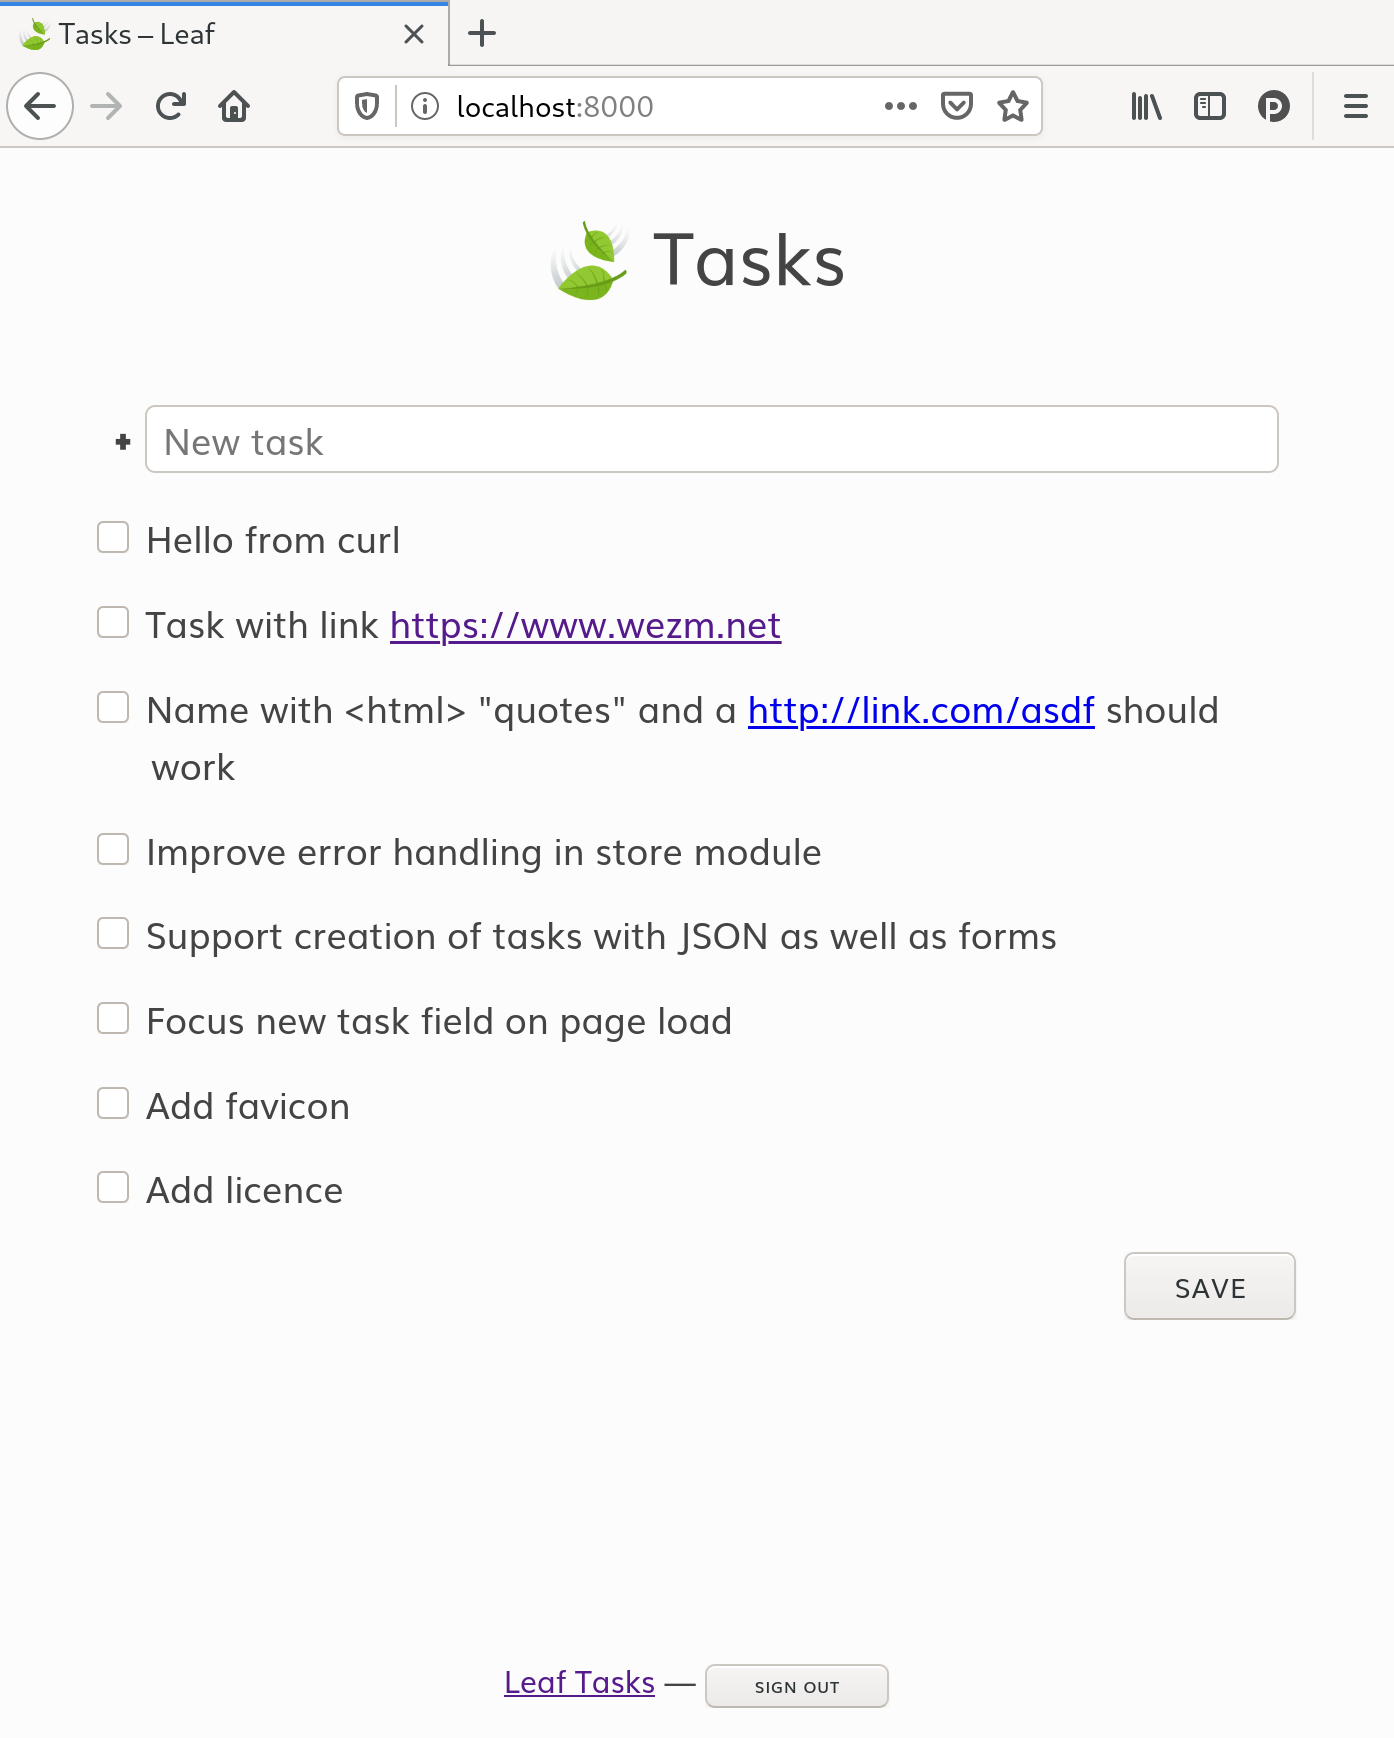
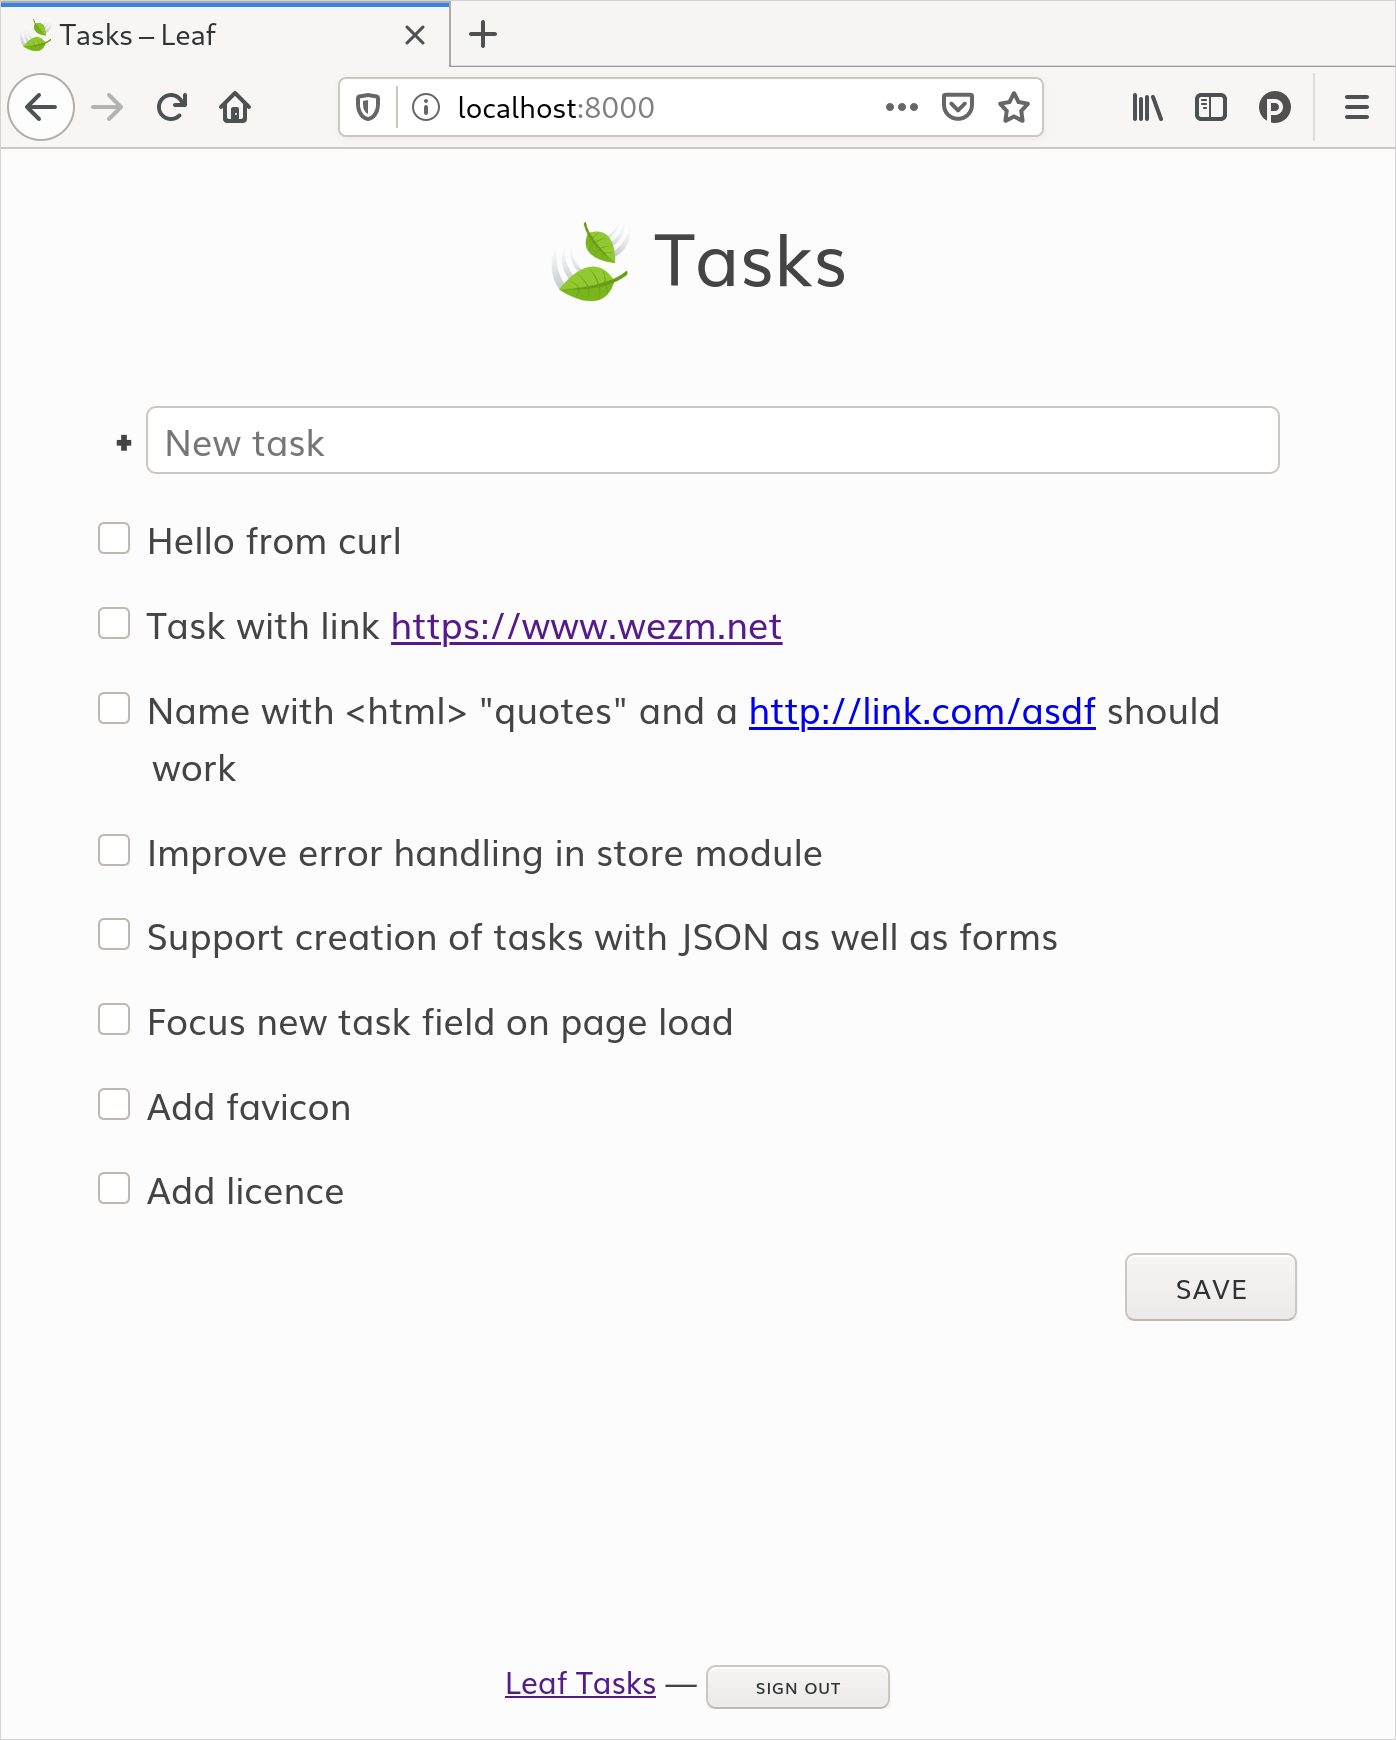
Try to improve screenshot appearance

diff --git a/README.md b/README.md
@@ -11,7 +11,7 @@ Feedbin — typically on my phone I use the iOS share sheet functionality
 to add a link to Wunderlist. With Wunderlist being shut down in May
 2020 I built Leaf as a replacement.
 
-![Screenshot](https://github.com/wezm/leaf/raw/master/screenshot.png)
+<img src="https://github.com/wezm/leaf/raw/master/screenshot.png" width="698">
 
 Features
 --------
